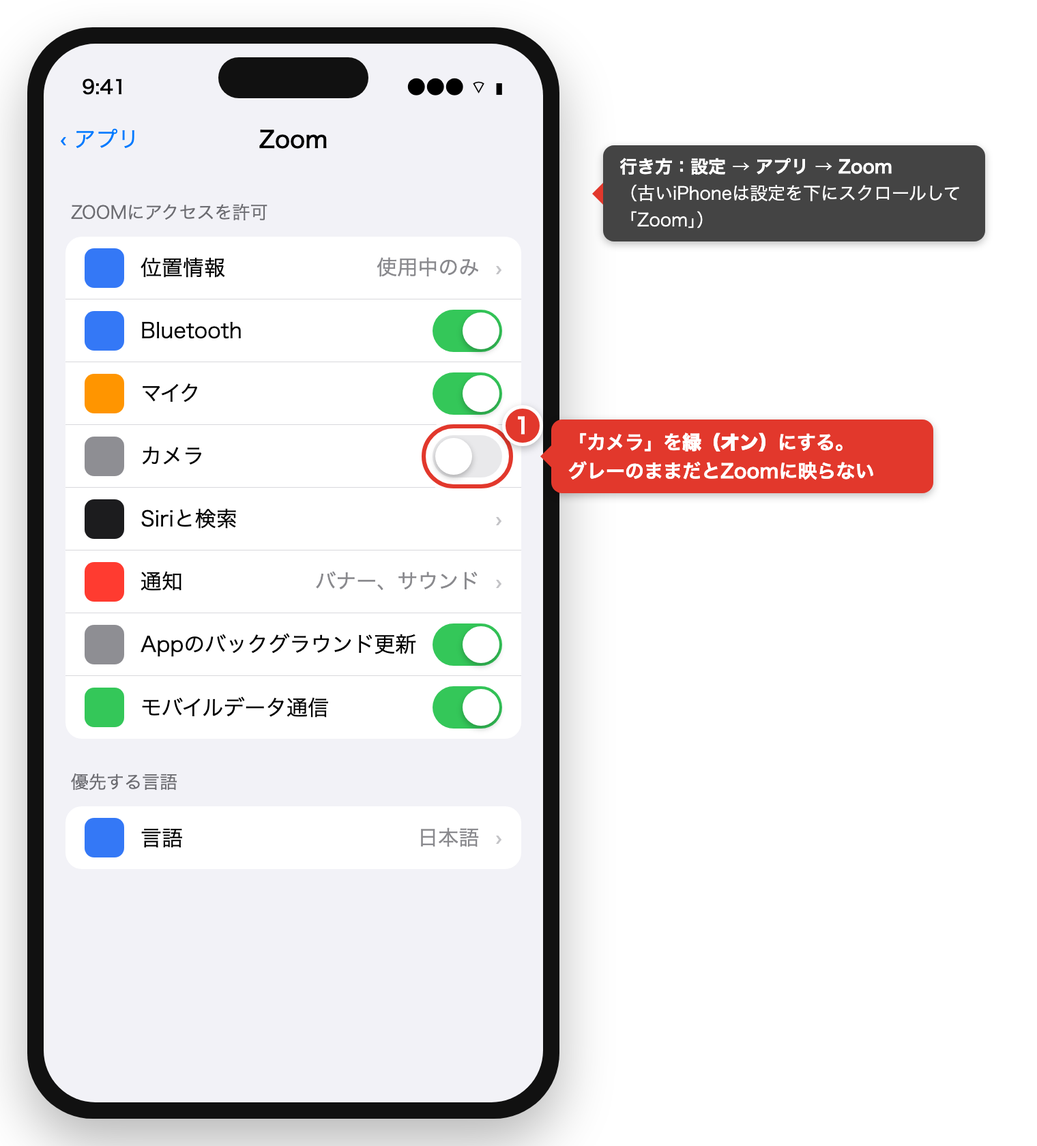
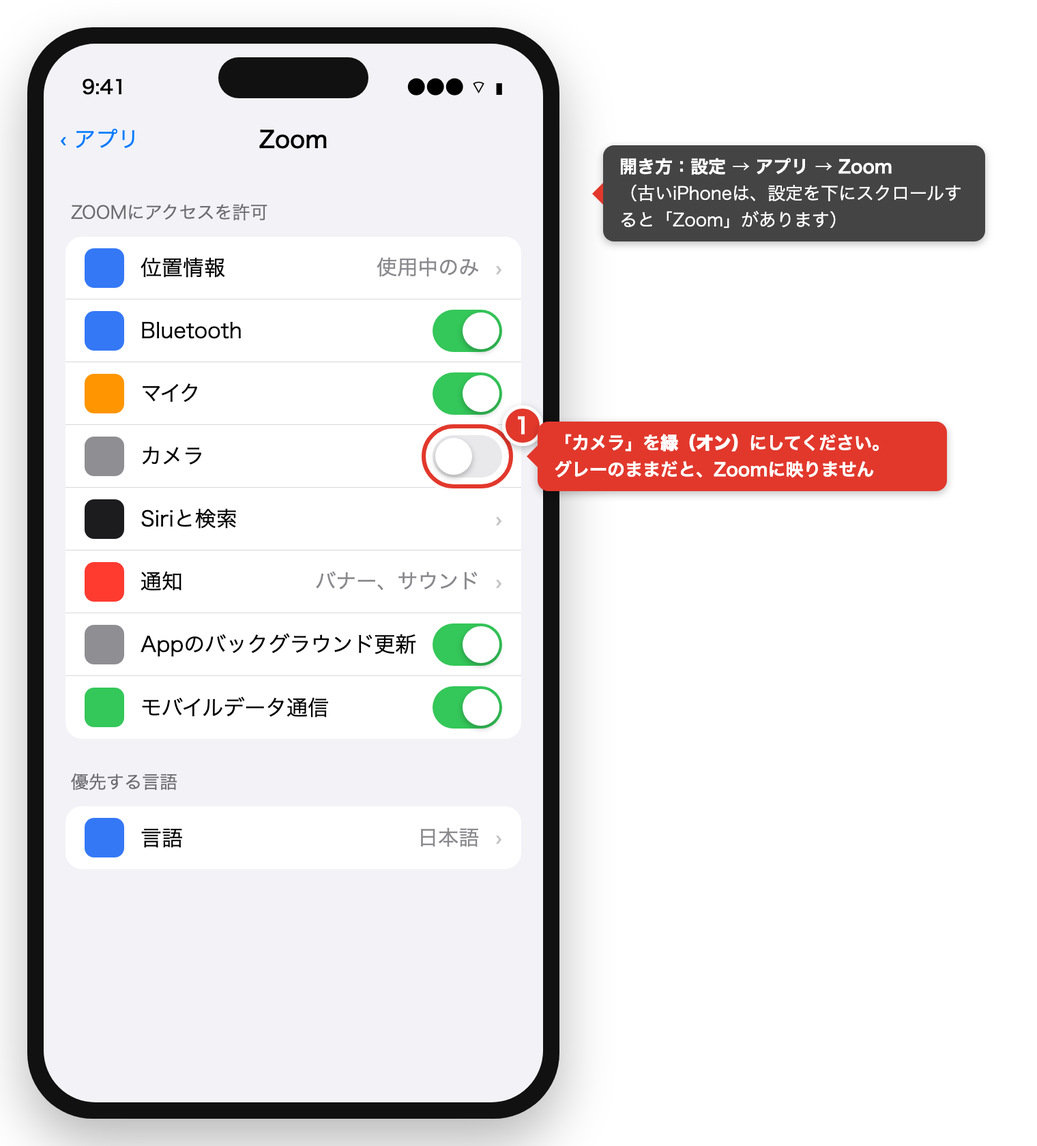
zoom-camera: rewrite copy and figure callouts in polite customer-facing tone

diff --git a/zoom-camera/index.html b/zoom-camera/index.html
@@ -85,39 +85,39 @@
 <header class="topbar"><div class="topbar-in">
   <a class="logo" href="#top">RISE <span>サポート</span></a>
   <nav class="topnav">
-    <a href="#first">まずこれ</a><a href="#byos">機種別</a><a href="#nocam">カメラが無い</a><a href="#share">画面共有</a><a href="#teacher">講師の方へ</a>
+    <a href="#first">まずはこちら</a><a href="#byos">機器別の設定</a><a href="#nocam">カメラが無い方</a><a href="#share">画面共有</a><a href="#teacher">講師の方へ</a>
   </nav>
 </div></header>
 
 <div class="hero" id="top">
   <span class="badge">ZOOM 面談サポート</span>
   <h1>Zoomで<span class="hl">カメラが映らない</span>ときの直し方</h1>
-  <p class="lead">面談中に講師からこのページが送られてきたら、<strong>上から順番に</strong>試してみてください。ほとんどは「①まずこれ」と「②機種別」で直ります。直らなくても、<strong>カメラオフのまま面談はできる</strong>ので安心してください。</p>
-  <div class="meta"><span class="chip accent">Windows</span><span class="chip accent">Mac</span><span class="chip accent">iPhone</span><span class="chip accent">Android</span><span class="chip">所要 3〜5分</span></div>
+  <p class="lead">面談中に講師からこのページが届いた方は、<strong>上から順番に</strong>お試しください。ほとんどの場合、「①」と「②」で直ります。もし直らなくても、<strong>カメラをオフにしたまま面談はできます</strong>ので、ご安心ください。</p>
+  <div class="meta"><span class="chip accent">Windows</span><span class="chip accent">Mac</span><span class="chip accent">iPhone</span><span class="chip accent">Android</span><span class="chip">所要時間 3〜5分</span></div>
 </div>
 
 <main>
 <!-- ① -->
 <section id="first">
-  <div class="sec-head"><div class="step-num">01</div><h2>まずこれ（全員共通・30秒）</h2></div>
+  <div class="sec-head"><div class="step-num">01</div><h2>まずはこちらをお試しください（どの機器でも共通・約30秒）</h2></div>
   <div class="card">
     <ol class="steps">
-      <li><span class="num">1</span><div>画面の下にある <strong>「ビデオの開始」</strong> ボタンを見る。<strong>カメラのマークに赤い斜線</strong>が付いていたら、それを押す<small>斜線が消えて「ビデオの停止」に変われば映っています</small></div></li>
-      <li><span class="num">2</span><div>それでも映らなければ、ビデオボタンの横の <strong>「^」</strong> を押して <strong>別のカメラ</strong> を選んでみる<small>PCだけ。スマホは次の③へ</small></div></li>
-      <li><span class="num">3</span><div><strong>カメラを使っている他のアプリ</strong>（LINE・Teams・カメラアプリ・ブラウザのタブ）を全部閉じる<small>カメラは同時に1つのアプリしか使えません</small></div></li>
-      <li><span class="num">4</span><div>Zoomを<strong>一度完全に閉じて</strong>、もう一度ミーティングURLから入り直す</div></li>
+      <li><span class="num">1</span><div>画面の下にある <strong>「ビデオの開始」</strong> ボタンをご覧ください。<strong>カメラのマークに赤い斜線</strong>が付いていたら、そのボタンを押してください。<small>斜線が消えて「ビデオの停止」という表示に変われば、映っています。</small></div></li>
+      <li><span class="num">2</span><div>それでも映らない場合は、ビデオボタンの横にある <strong>「^」</strong> を押して、<strong>別のカメラ</strong> を選んでみてください。<small>こちらはパソコンの方向けです。スマホの方は次の③へお進みください。</small></div></li>
+      <li><span class="num">3</span><div><strong>カメラを使っている他のアプリ</strong>（LINE・Teams・カメラアプリ・ブラウザのタブなど）があれば、すべて閉じてください。<small>カメラは、同時に1つのアプリでしか使えません。</small></div></li>
+      <li><span class="num">4</span><div>Zoomを<strong>一度完全に閉じて</strong>、もう一度ミーティングのURLから入り直してみましょう。</div></li>
     </ol>
-    <figure><a href="figs/zoom-toolbar-desktop.png" target="_blank" rel="noopener"><img src="figs/zoom-toolbar-desktop.png" alt="Zoomのツールバー（PC）。ビデオの開始ボタンと、^から出るカメラ選択メニュー" loading="lazy"></a><figcaption>PCの場合：画面の下。「ビデオの開始」の赤い斜線を消す／「^」でカメラを選ぶ</figcaption></figure>
-    <figure><a href="figs/zoom-mobile-toolbar.png" target="_blank" rel="noopener"><img src="figs/zoom-mobile-toolbar.png" alt="Zoomスマホアプリの会議画面。下のビデオの開始ボタン" loading="lazy"></a><figcaption>スマホの場合：画面を1回タップするとボタンが出る。「ビデオの開始」を押す</figcaption></figure>
-    <div class="ok"><b>ここで直った人は終わりです！</b> 直らなかった人は、下の「②機種別」で自分の機械を選んでください。</div>
+    <figure><a href="figs/zoom-toolbar-desktop.png" target="_blank" rel="noopener"><img src="figs/zoom-toolbar-desktop.png" alt="Zoomのツールバー（パソコン）。ビデオの開始ボタンと、^から出るカメラ選択メニュー" loading="lazy"></a><figcaption>パソコンの場合：画面の下にあります。「ビデオの開始」の赤い斜線を消す／「^」でカメラを選ぶ</figcaption></figure>
+    <figure><a href="figs/zoom-mobile-toolbar.png" target="_blank" rel="noopener"><img src="figs/zoom-mobile-toolbar.png" alt="Zoomスマホアプリの会議画面。下のビデオの開始ボタン" loading="lazy"></a><figcaption>スマホの場合：画面を1回タップするとボタンが表示されます。「ビデオの開始」を押してください</figcaption></figure>
+    <div class="ok"><b>ここで直った方は、これで完了です！</b> 直らなかった方は、下の「②」でお使いの機器を選んでください。</div>
   </div>
 </section>
 
 <!-- ② -->
 <section id="byos">
-  <div class="sec-head"><div class="step-num">02</div><h2>それでも映らない → 自分の機械を選ぶ</h2></div>
+  <div class="sec-head"><div class="step-num">02</div><h2>それでも映らないときは、お使いの機器を選んでください</h2></div>
   <div class="card">
-    <p style="margin-bottom:12px">ほとんどの原因は「<strong>パソコン（スマホ）がZoomにカメラを使わせていない</strong>」設定です。機械ごとに場所が違うので、使っているものを選んでください。</p>
+    <p style="margin-bottom:12px">ほとんどの原因は「<strong>パソコン（またはスマホ）が、Zoomにカメラを使わせていない</strong>」という設定です。機器によって設定の場所が違いますので、お使いのものを選んでください。</p>
     <div class="tabs" role="tablist">
       <button data-os="win"><span>🪟</span>Windows</button>
       <button data-os="mac"><span>🍎</span>Mac</button>
@@ -126,119 +126,119 @@
     </div>
 
     <div class="pane" id="pane-win">
-      <div class="pane-title">WINDOWS 11 / 10</div>
+      <div class="pane-title">WINDOWS 11 / 10 をお使いの方</div>
       <ol class="steps">
-        <li><span class="num">1</span><div><strong>スタート → 設定 → プライバシーとセキュリティ → カメラ</strong> を開く<small>Windows 10 は「プライバシー → カメラ」</small></div></li>
-        <li><span class="num">2</span><div>次の3つが全部 <strong>「オン」</strong> になっているか確認する<small>「カメラへのアクセス」／「アプリにカメラへのアクセスを許可する」／「デスクトップ アプリがカメラにアクセスできるようにする」</small></div></li>
-        <li><span class="num">3</span><div>いちばん下の <strong>「デスクトップ アプリ…」が特に大事</strong>。Zoomはここに入ります。オフならオンにして、Zoomを開き直す</div></li>
+        <li><span class="num">1</span><div><strong>スタート → 設定 → プライバシーとセキュリティ → カメラ</strong> の順に開いてください。<small>Windows 10 の場合は「プライバシー → カメラ」です。</small></div></li>
+        <li><span class="num">2</span><div>次の3つがすべて <strong>「オン」</strong> になっているか確認しましょう。<small>「カメラへのアクセス」／「アプリにカメラへのアクセスを許可する」／「デスクトップ アプリがカメラにアクセスできるようにする」</small></div></li>
+        <li><span class="num">3</span><div>いちばん下の <strong>「デスクトップ アプリ…」が特に大切</strong>です。Zoomはこちらに含まれます。オフになっていたらオンにして、Zoomを開き直してください。</div></li>
       </ol>
-      <figure><a href="figs/win-camera-settings.png" target="_blank" rel="noopener"><img src="figs/win-camera-settings.png" alt="Windows 11 設定のカメラ画面。3つのスイッチをオンにする" loading="lazy"></a><figcaption>設定 › プライバシーとセキュリティ › カメラ。②③が「オン」なら OK</figcaption></figure>
+      <figure><a href="figs/win-camera-settings.png" target="_blank" rel="noopener"><img src="figs/win-camera-settings.png" alt="Windows 11 設定のカメラ画面。3つのスイッチをオンにする" loading="lazy"></a><figcaption>設定 › プライバシーとセキュリティ › カメラ。②③が「オン」になっていればOKです</figcaption></figure>
       <ol class="steps" start="4">
-        <li><span class="num">4</span><div>Zoomの <strong>設定 → ビデオ</strong> を開き、「カメラ」の欄で別のカメラを選んでみる。上のプレビューに自分が映ればOK<small>Zoomのバージョンによっては「ビデオとエフェクト」という名前です</small></div></li>
+        <li><span class="num">4</span><div>Zoomの <strong>設定 → ビデオ</strong> を開き、「カメラ」の欄で別のカメラを選んでみてください。上のプレビューにご自身が映ればOKです。<small>Zoomのバージョンによっては「ビデオとエフェクト」という名前になっています。</small></div></li>
       </ol>
       <figure><a href="figs/zoom-video-settings.png" target="_blank" rel="noopener"><img src="figs/zoom-video-settings.png" alt="Zoomの設定画面のビデオタブ。カメラの選択欄" loading="lazy"></a><figcaption>Zoom › 設定 › ビデオ › カメラ</figcaption></figure>
       <ol class="steps" start="5">
-        <li><span class="num">5</span><div>それでもダメなら、<strong>カメラの物理スイッチ</strong>を確認する<small>キーボードのカメラキー（Fn＋F○）／本体側面のスライドスイッチ／レンズのカバー（シャッター）が閉まっていると映りません</small></div></li>
-        <li><span class="num">6</span><div>Windows標準の <strong>「カメラ」アプリ</strong>（スタートで「カメラ」と検索）で自分が映るか試す<small>ここでも映らなければPC側（ドライバーや故障）。映るならZoomを入れ直すと直ることが多いです</small></div></li>
+        <li><span class="num">5</span><div>それでも映らない場合は、<strong>カメラの物理スイッチ</strong>を確認してみましょう。<small>キーボードのカメラキー（Fn＋F○）／本体側面のスライドスイッチ／レンズのカバー（シャッター）が閉まっていると映りません。</small></div></li>
+        <li><span class="num">6</span><div>Windows標準の <strong>「カメラ」アプリ</strong>（スタートメニューで「カメラ」と検索）を開いて、ご自身が映るか試してみてください。<small>こちらでも映らない場合はパソコン側（ドライバーや故障）の可能性があります。映る場合は、Zoomを入れ直すと直ることが多いです。</small></div></li>
       </ol>
     </div>
 
     <div class="pane" id="pane-mac">
-      <div class="pane-title">MAC</div>
+      <div class="pane-title">MAC をお使いの方</div>
       <ol class="steps">
-        <li><span class="num">1</span><div>画面左上の <strong>りんごマーク → システム設定 → プライバシーとセキュリティ → カメラ</strong> を開く</div></li>
-        <li><span class="num">2</span><div><strong>「zoom.us」のスイッチを青（オン）</strong> にする</div></li>
-        <li><span class="num">3</span><div>Zoomを<strong>一度終了して開き直す</strong>（オンにしただけでは反映されません）</div></li>
+        <li><span class="num">1</span><div>画面左上の <strong>りんごマーク → システム設定 → プライバシーとセキュリティ → カメラ</strong> の順に開いてください。</div></li>
+        <li><span class="num">2</span><div><strong>「zoom.us」のスイッチを青（オン）</strong> にしてください。</div></li>
+        <li><span class="num">3</span><div>Zoomを<strong>一度終了して、開き直して</strong>ください。<small>オンにしただけでは反映されませんので、開き直しが必要です。</small></div></li>
       </ol>
       <figure><a href="figs/mac-camera-privacy.png" target="_blank" rel="noopener"><img src="figs/mac-camera-privacy.png" alt="Macのシステム設定のカメラ画面。zoom.usのスイッチをオンにする" loading="lazy"></a><figcaption>システム設定 › プライバシーとセキュリティ › カメラ</figcaption></figure>
       <ol class="steps" start="4">
-        <li><span class="num">4</span><div>Zoomの <strong>設定 → ビデオ</strong> で「カメラ」の欄を確認。別のカメラがあれば選んでみる</div></li>
+        <li><span class="num">4</span><div>Zoomの <strong>設定 → ビデオ</strong> を開き、「カメラ」の欄を確認してください。別のカメラがあれば選んでみましょう。</div></li>
       </ol>
       <figure><a href="figs/zoom-video-settings.png" target="_blank" rel="noopener"><img src="figs/zoom-video-settings.png" alt="Zoomの設定画面のビデオタブ" loading="lazy"></a><figcaption>Zoom › 設定 › ビデオ › カメラ</figcaption></figure>
       <ol class="steps" start="5">
-        <li><span class="num">5</span><div>それでもダメなら <strong>FaceTime</strong> アプリを開いて自分が映るか試す<small>FaceTimeでも映らなければMac側の問題。映るならZoomを入れ直す</small></div></li>
+        <li><span class="num">5</span><div>それでも映らない場合は、<strong>FaceTime</strong> アプリを開いて、ご自身が映るか試してみてください。<small>FaceTimeでも映らない場合はMac側の問題の可能性があります。映る場合は、Zoomを入れ直してみてください。</small></div></li>
       </ol>
-      <div class="note"><b>初めてZoomを使うとき</b>、「“zoom.us”がカメラへのアクセスを求めています」と出たら <b>「OK（許可）」</b> を押してください。「許可しない」を押してしまった人は上の手順で直せます。</div>
+      <div class="note"><b>初めてZoomを使うとき</b>に「“zoom.us”がカメラへのアクセスを求めています」と表示されたら、<b>「OK（許可）」</b> を押してください。「許可しない」を押してしまった場合も、上の手順で直せます。</div>
     </div>
 
     <div class="pane" id="pane-iphone">
-      <div class="pane-title">IPHONE / IPAD</div>
+      <div class="pane-title">IPHONE / IPAD をお使いの方</div>
       <ol class="steps">
-        <li><span class="num">1</span><div><strong>設定 → アプリ → Zoom</strong> を開く<small>古いiPhoneは「設定」を下にスクロールして「Zoom」</small></div></li>
-        <li><span class="num">2</span><div><strong>「カメラ」を緑（オン）</strong> にする</div></li>
-        <li><span class="num">3</span><div>Zoomアプリを<strong>一度閉じて</strong>（画面の下から上にスワイプして消す）開き直す</div></li>
+        <li><span class="num">1</span><div><strong>設定 → アプリ → Zoom</strong> の順に開いてください。<small>古いiPhoneの場合は、「設定」を下にスクロールすると「Zoom」があります。</small></div></li>
+        <li><span class="num">2</span><div><strong>「カメラ」を緑（オン）</strong> にしてください。</div></li>
+        <li><span class="num">3</span><div>Zoomアプリを<strong>一度閉じて</strong>（画面の下から上にスワイプして消して）、開き直してください。</div></li>
       </ol>
       <figure><a href="figs/iphone-zoom-permission.png" target="_blank" rel="noopener"><img src="figs/iphone-zoom-permission.png" alt="iPhoneの設定アプリのZoomの画面。カメラをオンにする" loading="lazy"></a><figcaption>設定 › アプリ › Zoom › カメラ</figcaption></figure>
-      <div class="note"><b>注意</b>：Zoomの会議中に「ビデオの開始」を押しても反応しないときは、この設定がオフになっていることがほとんどです。</div>
+      <div class="note"><b>ご参考</b>：会議中に「ビデオの開始」を押しても反応しないときは、この設定がオフになっていることがほとんどです。</div>
     </div>
 
     <div class="pane" id="pane-android">
-      <div class="pane-title">ANDROID</div>
+      <div class="pane-title">ANDROID をお使いの方</div>
       <ol class="steps">
-        <li><span class="num">1</span><div><strong>設定 → アプリ → Zoom → 権限 → カメラ</strong> を開く<small>機種によって「アプリと通知」「権限マネージャ」という名前のこともあります</small></div></li>
-        <li><span class="num">2</span><div><strong>「アプリの使用中のみ許可」</strong> を選ぶ（「許可しない」のままだと映りません）</div></li>
-        <li><span class="num">3</span><div>Zoomアプリを<strong>一度閉じて</strong>開き直す</div></li>
+        <li><span class="num">1</span><div><strong>設定 → アプリ → Zoom → 権限 → カメラ</strong> の順に開いてください。<small>機種によって「アプリと通知」「権限マネージャ」という名前になっていることもあります。</small></div></li>
+        <li><span class="num">2</span><div><strong>「アプリの使用中のみ許可」</strong> を選んでください。<small>「許可しない」のままだと映りません。</small></div></li>
+        <li><span class="num">3</span><div>Zoomアプリを<strong>一度閉じて</strong>、開き直してください。</div></li>
       </ol>
       <figure><a href="figs/android-zoom-permission.png" target="_blank" rel="noopener"><img src="figs/android-zoom-permission.png" alt="Androidのカメラへのアクセス権限の画面。アプリの使用中のみ許可を選ぶ" loading="lazy"></a><figcaption>設定 › アプリ › Zoom › 権限 › カメラ</figcaption></figure>
-      <div class="note"><b>どうしても見つからないとき</b>：設定アプリの上にある検索窓に「権限」や「Zoom」と入れると出てきます。</div>
+      <div class="note"><b>見つからないとき</b>は、設定アプリの上にある検索窓に「権限」や「Zoom」と入力すると出てきます。</div>
     </div>
   </div>
 </section>
 
 <!-- ③ -->
 <section id="nocam">
-  <div class="sec-head"><div class="step-num">03</div><h2>パソコンにカメラが無い → スマホと2台で入る</h2></div>
+  <div class="sec-head"><div class="step-num">03</div><h2>パソコンにカメラが無い場合は、スマホと2台で入りましょう</h2></div>
   <div class="card">
-    <p>デスクトップPCや古いノートPCには、そもそもカメラが付いていないことがあります。その場合は<strong>カメラを買わなくても</strong>、スマホとPCの両方で同じミーティングに入れば大丈夫です。</p>
-    <figure><a href="figs/two-device.png" target="_blank" rel="noopener"><img src="figs/two-device.png" alt="スマホは顔と声、PCは画面共有の役割分担の図" loading="lazy"></a><figcaption>スマホ＝顔と声／PC＝画面共有</figcaption></figure>
+    <p>デスクトップパソコンや古いノートパソコンには、そもそもカメラが付いていないことがあります。その場合は<strong>カメラを買わなくても大丈夫です</strong>。スマホとパソコンの両方で同じミーティングに入れば、顔と画面の両方を見せられます。</p>
+    <figure><a href="figs/two-device.png" target="_blank" rel="noopener"><img src="figs/two-device.png" alt="スマホは顔と声、パソコンは画面共有の役割分担の図" loading="lazy"></a><figcaption>スマホ＝顔と声／パソコン＝画面共有</figcaption></figure>
     <ol class="steps">
-      <li><span class="num">1</span><div>いつも通り <strong>PCでZoomに入る</strong></div></li>
-      <li><span class="num">2</span><div><strong>スマホでも同じミーティングURL</strong>（LINEに届いているリンク）から入る。名前は「○○（スマホ）」にすると分かりやすい</div></li>
-      <li><span class="num">3</span><div><strong>PC側はマイクをミュート、スピーカーはオフ</strong>にする<small>Zoomに入るとき「コンピューターオーディオに参加」を押さない／入ったあとなら「ミュート」横の「^」→「コンピューターオーディオから退出」。音が二重になる・キーンと鳴る（ハウリング）のを防ぎます</small></div></li>
-      <li><span class="num">4</span><div>画面を見せたいときは <strong>PCの「画面の共有」</strong> を使う。顔と声はスマホ</div></li>
+      <li><span class="num">1</span><div>いつも通り、<strong>パソコンでZoomに入ってください</strong>。</div></li>
+      <li><span class="num">2</span><div><strong>スマホでも、同じミーティングのURL</strong>（LINEに届いているリンク）から入ってください。お名前を「○○（スマホ）」にしていただくと、講師が分かりやすくなります。</div></li>
+      <li><span class="num">3</span><div><strong>パソコン側はマイクをミュートにして、スピーカーはオフ</strong>にしてください。<small>Zoomに入るときに「コンピューターオーディオに参加」を押さないか、入ったあとなら「ミュート」横の「^」→「コンピューターオーディオから退出」を選びます。音が二重になったり、キーンと鳴ったり（ハウリング）するのを防げます。</small></div></li>
+      <li><span class="num">4</span><div>画面を見せたいときは、<strong>パソコンの「画面の共有」</strong> をお使いください。お顔と声はスマホから届きます。</div></li>
     </ol>
-    <div class="ok"><b>カメラは必須ではありません。</b> 2台が難しければ、カメラオフのまま面談しても大丈夫です。講師にそう伝えてください。</div>
+    <div class="ok"><b>カメラは必須ではありません。</b> 2台で入るのが難しければ、カメラをオフにしたまま面談していただいて大丈夫です。講師にその旨をお伝えください。</div>
   </div>
 </section>
 
 <!-- ④ -->
 <section id="share">
-  <div class="sec-head"><div class="step-num">04</div><h2>画面共有ができない・真っ黒になる（Mac）</h2></div>
+  <div class="sec-head"><div class="step-num">04</div><h2>画面共有ができない・真っ黒になるとき（Mac）</h2></div>
   <div class="card">
-    <p>Macは、カメラとは<strong>別に「画面収録」の許可</strong>が必要です。これがオフだと「画面の共有」を押しても相手には真っ黒な画面しか見えません。</p>
+    <p>Macでは、カメラとは<strong>別に「画面収録」の許可</strong>が必要です。これがオフのままだと、「画面の共有」を押しても相手には真っ黒な画面しか見えません。</p>
     <ol class="steps">
-      <li><span class="num">1</span><div><strong>システム設定 → プライバシーとセキュリティ</strong> を開き、下にスクロールして <strong>「画面収録とシステムオーディオ録音」</strong> を押す<small>古いmacOSでは「画面収録」</small></div></li>
-      <li><span class="num">2</span><div><strong>「zoom.us」をオン</strong>にする</div></li>
-      <li><span class="num">3</span><div>Zoomを<strong>一度終了して開き直す</strong></div></li>
+      <li><span class="num">1</span><div><strong>システム設定 → プライバシーとセキュリティ</strong> を開き、下にスクロールして <strong>「画面収録とシステムオーディオ録音」</strong> を押してください。<small>古いmacOSでは「画面収録」という名前です。</small></div></li>
+      <li><span class="num">2</span><div><strong>「zoom.us」をオン</strong>にしてください。</div></li>
+      <li><span class="num">3</span><div>Zoomを<strong>一度終了して、開き直して</strong>ください。</div></li>
     </ol>
     <figure><a href="figs/mac-screen-recording.png" target="_blank" rel="noopener"><img src="figs/mac-screen-recording.png" alt="Macのシステム設定の画面収録の画面。zoom.usをオンにする" loading="lazy"></a><figcaption>システム設定 › プライバシーとセキュリティ › 画面収録とシステムオーディオ録音</figcaption></figure>
-    <p style="margin-top:12px"><strong>Windowsの場合</strong>は、この許可は基本いりません。画面共有が出ないときはZoomを最新版に更新して入り直してください。</p>
+    <p style="margin-top:12px"><strong>Windowsの場合</strong>、この許可は基本的に必要ありません。画面共有が出ないときは、Zoomを最新版に更新してから入り直してみてください。</p>
   </div>
 </section>
 
 <!-- ⑤ -->
 <section id="teacher">
-  <div class="sec-head"><div class="step-num">05</div><h2>講師の方へ：面談中の聞き方と送る文面</h2></div>
+  <div class="sec-head"><div class="step-num">05</div><h2>講師の方へ：面談中の確認の順番と、お送りする文面</h2></div>
   <div class="card">
-    <h3>🗣 聞く順番（この順で5分以内に切り分け）</h3>
+    <h3>🗣 確認の順番（この順番なら5分以内に切り分けられます）</h3>
     <ol>
-      <li><strong>「今、パソコンですか？スマホですか？」</strong>（Windows／Mac／iPhone／Androidまで聞く）</li>
-      <li><strong>「画面の下のビデオのボタンに、赤い斜線は付いてますか？」</strong> → 付いていれば押してもらう（①）</li>
-      <li>PCなら <strong>「ビデオボタンの横の「^」を押すと、カメラの名前は出ますか？」</strong> → 出ない＝PCがカメラを認識していない（②へ）／出る＝別のカメラを選んでもらう</li>
-      <li>機種別のページを送って、一緒に設定を確認する（下の文面）</li>
-      <li>5分で直らなければ、<strong>カメラオフのまま面談を進める</strong>（PCにカメラが無い人は③の2台方式を次回までに案内）</li>
+      <li><strong>「今は、パソコンとスマホのどちらでご参加ですか？」</strong>（Windows／Mac／iPhone／Androidまで伺ってください）</li>
+      <li><strong>「画面の下のビデオのボタンに、赤い斜線は付いていますか？」</strong> → 付いていれば、押していただきます（①）</li>
+      <li>パソコンの方には <strong>「ビデオボタンの横の「^」を押すと、カメラの名前は出ますか？」</strong> → 出ない＝パソコンがカメラを認識していません（②へ）／出る＝別のカメラを選んでいただきます</li>
+      <li>機種別のページをお送りして、一緒に設定を確認します（下の文面をお使いください）</li>
+      <li>5分で直らない場合は、<strong>カメラオフのまま面談を進めてください</strong>（パソコンにカメラが無い方には、③の2台方式を次回までにご案内ください）</li>
     </ol>
-    <div class="note"><b>前回スマホで入っていた人</b>は、PCにカメラが無い可能性が高いです。「前回はスマホからでしたよね？」と聞くと早いです。</div>
+    <div class="note"><b>前回スマホで参加されていた方</b>は、パソコンにカメラが無い可能性が高いです。「前回はスマホからでしたよね？」と伺うと早く切り分けられます。</div>
   </div>
   <div class="card">
-    <h3>💬 受講生に送る文面（コピーして使ってください）</h3>
+    <h3>💬 受講生の方にお送りする文面（コピーしてお使いください）</h3>
     <div class="copybox" id="msg1">カメラが映らないときの直し方をまとめたページです👇
 https://ryoya9595.github.io/rise-guide/zoom-camera/
 
 上から順番に試してみてください！
-直らなくても、カメラオフのまま面談はできるので大丈夫です🙆♀</div>
+直らなくても、カメラオフのまま面談はできますので大丈夫ですよ🙆♀</div>
     <button class="btn" data-copy="msg1">この文面をコピー</button>
-    <p style="margin-top:14px"><strong>機種が分かっている場合</strong>は、URLの後ろに付けると、その機種のタブが開いた状態で届きます：</p>
+    <p style="margin-top:14px"><strong>機種が分かっている場合</strong>は、URLの後ろに次の文字を付けると、その機種のタブが開いた状態で届きます。</p>
     <ul>
       <li>Windows：<code>…/zoom-camera/#win</code></li>
       <li>Mac：<code>…/zoom-camera/#mac</code></li>
@@ -247,7 +247,7 @@ https://ryoya9595.github.io/rise-guide/zoom-camera/
     </ul>
   </div>
   <div class="card">
-    <h3>🔗 公式の説明（もっと詳しく）</h3>
+    <h3>🔗 公式の説明（もっと詳しく知りたい方へ）</h3>
     <div class="links">
       <a href="https://support.zoom.com/hc/ja/article?id=zm_kb&sysparm_article=KB0068908" target="_blank" rel="noopener">Zoom：ミーティング中のカメラに関する問題のトラブルシューティング</a>
       <a href="https://support.zoom.com/hc/ja/article?id=zm_kb&sysparm_article=KB0064868" target="_blank" rel="noopener">Zoom：macOSでZoomに権限を付与する</a>
@@ -261,7 +261,7 @@ https://ryoya9595.github.io/rise-guide/zoom-camera/
 </main>
 
 <footer>
-  <p>RISE サポート｜最終更新 2026-10-16｜画面の図はイメージです。OSやZoomのバージョンによって名前や並びが少し違うことがあります。Zoom・Windows・macOS・iOS・Androidは各社の商標です。</p>
+  <p>RISE サポート｜最終更新 2026-10-16｜画面の図はイメージです。OSやZoomのバージョンによって、名前や並びが少し違うことがあります。Zoom・Windows・macOS・iOS・Androidは各社の商標です。</p>
 </footer>
 
 <script>

diff --git a/zoom-camera/figs/two-device.html b/zoom-camera/figs/two-device.html
@@ -21,7 +21,7 @@
 </style></head>
 <body data-size="1100x560">
 <div class="stage">
-  <div class="title">PCにカメラが無いとき：同じミーティングに「2台」で入る</div>
+  <div class="title">パソコンにカメラが無いときは、同じミーティングに「2台」で入りましょう</div>
   <div class="box l">
     <h3>📱 スマホ</h3><div class="role">顔と声の担当</div>
     <div class="dev"><svg width="90" height="150" viewBox="0 0 90 150"><rect x="4" y="4" width="82" height="142" rx="16" fill="#1b1b1f"/><rect x="12" y="18" width="66" height="112" rx="6" fill="#2b2b31"/><circle cx="45" cy="74" r="20" fill="#4a5bd6"/><text x="45" y="81" text-anchor="middle" fill="#fff" font-size="18" font-weight="700">あ</text></svg></div>
@@ -29,10 +29,10 @@
   </div>
   <div class="mid"><span class="arr">→</span><div class="zoom">Zoom<br>ミーティング</div><span class="arr">←</span></div>
   <div class="box r">
-    <h3>💻 PC</h3><div class="role">画面共有の担当</div>
+    <h3>💻 パソコン</h3><div class="role">画面共有の担当</div>
     <div class="dev"><svg width="190" height="130" viewBox="0 0 190 130"><rect x="20" y="6" width="150" height="96" rx="8" fill="#1b1b1f"/><rect x="28" y="14" width="134" height="80" rx="4" fill="#2b2b31"/><rect x="40" y="26" width="110" height="56" rx="3" fill="#f3eee4"/><rect x="4" y="104" width="182" height="12" rx="4" fill="#3a3a42"/></svg></div>
-    <ul><li>画面共有だけ使う</li><li class="ng">マイク：ミュート</li><li class="ng">スピーカー：オフ（ハウリング防止）</li></ul>
+    <ul><li>画面共有だけに使います</li><li class="ng">マイク：ミュート</li><li class="ng">スピーカー：オフ（ハウリング防止）</li></ul>
   </div>
-  <div class="foot">💡 スマホは<b>同じミーティングURL</b>から入るだけ。名前は「〇〇（スマホ）」にすると講師が分かりやすい。<b>カメラは必須ではない</b>ので、どうしても難しければカメラオフのままでも面談はできます。</div>
+  <div class="foot">💡 スマホは、<b>同じミーティングURL</b>から入るだけで大丈夫です。お名前を「〇〇（スマホ）」にしていただくと、講師が分かりやすくなります。<b>カメラは必須ではありません</b>ので、難しい場合はカメラオフのままでも面談できます。</div>
 </div>
 </body></html>

diff --git a/zoom-camera/figs/zoom-mobile-toolbar.html b/zoom-camera/figs/zoom-mobile-toolbar.html
@@ -29,9 +29,9 @@
 </div></div>
   <div class="mark" data-target="#video" data-pad="6"></div>
   <div class="badge" data-target="#video" data-at="left" data-dx="4" data-dy="2">1</div>
-  <div class="callout l" data-target="#video" data-at="right" data-dx="210" data-dy="-6" style="white-space:normal;width:270px;font-size:14px">赤い斜線が付いていたら押す。<br>消えたら自分が映る</div>
-  <div class="callout l" data-target=".zm .self" data-at="right" data-dx="30" style="white-space:normal;width:270px;font-size:13px;background:#444">ボタンが見えない時は<br>画面を1回タップすると出てくる</div>
-  <div class="callout l" data-target=".zm .top" data-at="right" data-dx="18" data-dy="46" style="white-space:normal;width:270px;font-size:13px;background:#444">初めてZoomを開いた時に「カメラへのアクセスを求めています」が出たら<b>「許可」</b>を押す</div>
+  <div class="callout l" data-target="#video" data-at="right" data-dx="210" data-dy="-6" style="white-space:normal;width:300px;font-size:13px">赤い斜線が付いていたら、押してください。<br>斜線が消えれば、ご自身が映ります</div>
+  <div class="callout l" data-target=".zm .self" data-at="right" data-dx="30" style="white-space:normal;width:270px;font-size:13px;background:#444">ボタンが見えないときは、<br>画面を1回タップすると表示されます</div>
+  <div class="callout l" data-target=".zm .top" data-at="right" data-dx="18" data-dy="46" style="white-space:normal;width:270px;font-size:13px;background:#444">初めてZoomを開いたときに「カメラへのアクセスを求めています」と出たら、<b>「許可」</b>を押してください</div>
 </div>
 <script src="annotate.js"></script>
 </body></html>

diff --git a/zoom-camera/figs/mac-screen-recording.html b/zoom-camera/figs/mac-screen-recording.html
@@ -39,10 +39,10 @@
   <div class="badge" data-target="#priv" data-at="left">1</div>
   <div class="mark" data-target="#h" data-pad="8" style="border-radius:14px"></div>
   <div class="badge" data-target="#h" data-at="right" data-dx="4">2</div>
-  <div class="callout l" data-target="#h" data-at="right" data-dx="20" style="white-space:normal;width:330px;font-size:13.5px">「プライバシーとセキュリティ」の中を<br>下にスクロールして、この項目を開く</div>
+  <div class="callout l" data-target="#h" data-at="right" data-dx="20" style="white-space:normal;width:330px;font-size:13.5px">「プライバシーとセキュリティ」の中を<br>下にスクロールして、この項目を開いてください</div>
   <div class="mark" data-target="#zsw" data-pad="8" style="border-radius:20px"></div>
   <div class="badge" data-target="#zsw" data-at="right" data-dx="4">3</div>
-  <div class="callout t ar" data-target="#zsw" data-at="below" data-dx="-150" data-dy="-4" style="white-space:normal;width:360px;font-size:13.5px;z-index:7">ここをオンにしないと<b>画面共有が真っ黒</b>になる。<br>オンにしたらZoomを一度終了して開き直す</div>
+  <div class="callout t ar" data-target="#zsw" data-at="below" data-dx="-185" data-dy="-4" style="white-space:normal;width:430px;font-size:13.5px;z-index:7">ここをオンにしないと、<b>画面共有が真っ黒</b>になります。<br>オンにしたら、Zoomを一度終了して開き直してください</div>
 </div>
 <script src="annotate.js"></script>
 </body></html>

diff --git a/zoom-camera/figs/android-zoom-permission.html b/zoom-camera/figs/android-zoom-permission.html
@@ -19,8 +19,8 @@
 </div></div>
   <div class="mark" data-target="#o1" data-pad="6"></div>
   <div class="badge" data-target="#o1" data-at="left" data-dx="2">1</div>
-  <div class="callout l" data-target="#o1" data-at="right" data-dx="40" style="white-space:normal;width:280px;font-size:14px">「<b>アプリの使用中のみ許可</b>」を選ぶ。<br>「許可しない」になっていると映らない</div>
-  <div class="callout l" data-target=".and .nav" data-at="right" data-dx="18" data-dy="30" style="white-space:normal;width:280px;font-size:13px;background:#444">行き方：設定 → アプリ → Zoom → 権限 → カメラ<br><span style="font-weight:400">（機種によって「アプリと通知」「権限マネージャ」の名前のことも）</span></div>
+  <div class="callout l" data-target="#o1" data-at="right" data-dx="10" style="white-space:normal;width:305px;font-size:13px">「<b>アプリの使用中のみ許可</b>」を選んでください。<br>「許可しない」のままだと映りません</div>
+  <div class="callout l" data-target=".and .nav" data-at="right" data-dx="18" data-dy="30" style="white-space:normal;width:280px;font-size:13px;background:#444">開き方：設定 → アプリ → Zoom → 権限 → カメラ<br><span style="font-weight:400">（機種によって「アプリと通知」「権限マネージャ」という名前のこともあります）</span></div>
 </div>
 <script src="annotate.js"></script>
 </body></html>

diff --git a/zoom-camera/figs/iphone-zoom-permission.html b/zoom-camera/figs/iphone-zoom-permission.html
@@ -23,8 +23,8 @@
 </div></div>
   <div class="mark" data-target="#csw" data-pad="8" style="border-radius:24px"></div>
   <div class="badge" data-target="#csw" data-at="right" data-dx="4">1</div>
-  <div class="callout l" data-target="#csw" data-at="right" data-dx="10" style="white-space:normal;width:280px;font-size:14px">「カメラ」を<b>緑（オン）</b>にする。<br>グレーのままだとZoomに映らない</div>
-  <div class="callout l" data-target=".ios .nav" data-at="right" data-dx="18" data-dy="40" style="white-space:normal;width:280px;font-size:13px;background:#444">行き方：設定 → アプリ → Zoom<br><span style="font-weight:400">（古いiPhoneは設定を下にスクロールして「Zoom」）</span></div>
+  <div class="callout l" data-target="#csw" data-at="right" data-dx="0" style="white-space:normal;width:300px;font-size:13px">「カメラ」を<b>緑（オン）</b>にしてください。<br>グレーのままだと、Zoomに映りません</div>
+  <div class="callout l" data-target=".ios .nav" data-at="right" data-dx="18" data-dy="40" style="white-space:normal;width:280px;font-size:13px;background:#444">開き方：設定 → アプリ → Zoom<br><span style="font-weight:400">（古いiPhoneは、設定を下にスクロールすると「Zoom」があります）</span></div>
 </div>
 <script src="annotate.js"></script>
 </body></html>

diff --git a/zoom-camera/figs/zoom-toolbar-desktop.html b/zoom-camera/figs/zoom-toolbar-desktop.html
@@ -63,10 +63,10 @@
   </div>
   <div class="mark" data-target="#video" data-pad="4"></div>
   <div class="badge" data-target="#video" data-at="left" data-dx="-2"></div>
-    <div class="callout t" data-target="#video" data-at="below" data-dy="-4" data-dx="120" style="white-space:normal;width:330px;text-align:left">赤い斜線が付いていたら<br>ここを押す → 「ビデオの開始」</div>
+    <div class="callout t" data-target="#video" data-at="below" data-dy="-4" data-dx="120" style="white-space:normal;width:330px;text-align:left">赤い斜線が付いていたら、<br>このボタンを押してください</div>
   <div class="mark" data-target="#menu" data-pad="6" style="border-radius:12px"></div>
   <div class="badge" data-target="#menu" data-at="right"></div>
-  <div class="callout l" data-target="#menu" data-at="right" data-dy="-40" style="white-space:normal;width:300px">「^」を押すとカメラを選べる。<br>映らない時は別のカメラに切替</div>
+  <div class="callout l" data-target="#menu" data-at="right" data-dy="-40" style="white-space:normal;width:390px;font-size:13.5px">「^」を押すとカメラを選べます。<br>映らないときは、別のカメラに切り替えてみてください</div>
 </div>
 <script src="annotate.js"></script>
 <script>

diff --git a/zoom-camera/figs/win-camera-settings.html b/zoom-camera/figs/win-camera-settings.html
@@ -137,11 +137,11 @@
 
   <div class="mark" data-target="#c2 .right" data-pad="10"></div>
   <div class="badge" data-target="#c2 .right" data-at="right">2</div>
-  <div class="callout r" data-target="#c2 .right" data-at="left">「オン」になっているか</div>
+  <div class="callout r" data-target="#c2 .right" data-at="left">「オン」になっているか確認してください</div>
 
   <div class="mark" data-target="#c3 .right" data-pad="10"></div>
   <div class="badge" data-target="#c3 .right" data-at="right">3</div>
-  <div class="callout t" data-target="#c3 .right" data-at="below" data-dx="-90">Zoomはここ！「オン」が必須</div>
+  <div class="callout t" data-target="#c3 .right" data-at="below" data-dx="-150" style="white-space:normal;width:330px;font-size:13.5px">Zoomはこちらに含まれます。<br>「オン」にしてください</div>
 <script src="annotate.js"></script>
 </div>
 </body>

diff --git a/zoom-camera/figs/mac-camera-privacy.html b/zoom-camera/figs/mac-camera-privacy.html
@@ -39,7 +39,7 @@
   <div class="badge" data-target="#priv" data-at="left">1</div>
   <div class="mark" data-target="#zsw" data-pad="8" style="border-radius:20px"></div>
   <div class="badge" data-target="#zsw" data-at="right" data-dx="4">2</div>
-  <div class="callout t ar" data-target="#zsw" data-at="below" data-dx="-150" data-dy="-4" style="white-space:normal;width:360px;font-size:13.5px">「zoom.us」のスイッチを<b>青（オン）</b>にする。<br>オフのままだとZoomにカメラが映らない</div>
+  <div class="callout t ar" data-target="#zsw" data-at="below" data-dx="-165" data-dy="-4" style="white-space:normal;width:390px;font-size:13.5px">「zoom.us」のスイッチを<b>青（オン）</b>にしてください。<br>オフのままだと、Zoomにカメラが映りません</div>
 </div>
 <script src="annotate.js"></script>
 </body></html>

diff --git a/zoom-camera/figs/zoom-video-settings.html b/zoom-camera/figs/zoom-video-settings.html
@@ -48,7 +48,7 @@
   <div class="badge" data-target="#tab" data-at="left">1</div>
   <div class="mark" data-target="#dd" data-pad="8" style="border-radius:14px"></div>
   <div class="badge" data-target="#dd" data-at="right">2</div>
-  <div class="callout l" data-target="#dd" data-at="right" data-dx="-6" style="white-space:normal;width:300px;font-size:13.5px">ここを押して別のカメラを選ぶ。<br>上のプレビューに自分が映ればOK</div>
+  <div class="callout l" data-target="#dd" data-at="right" data-dx="-6" style="white-space:normal;width:300px;font-size:13px">ここを押して、別のカメラを選んでください。<br>上のプレビューにご自身が映ればOKです</div>
 </div>
 <script src="annotate.js"></script>
 </body></html>
